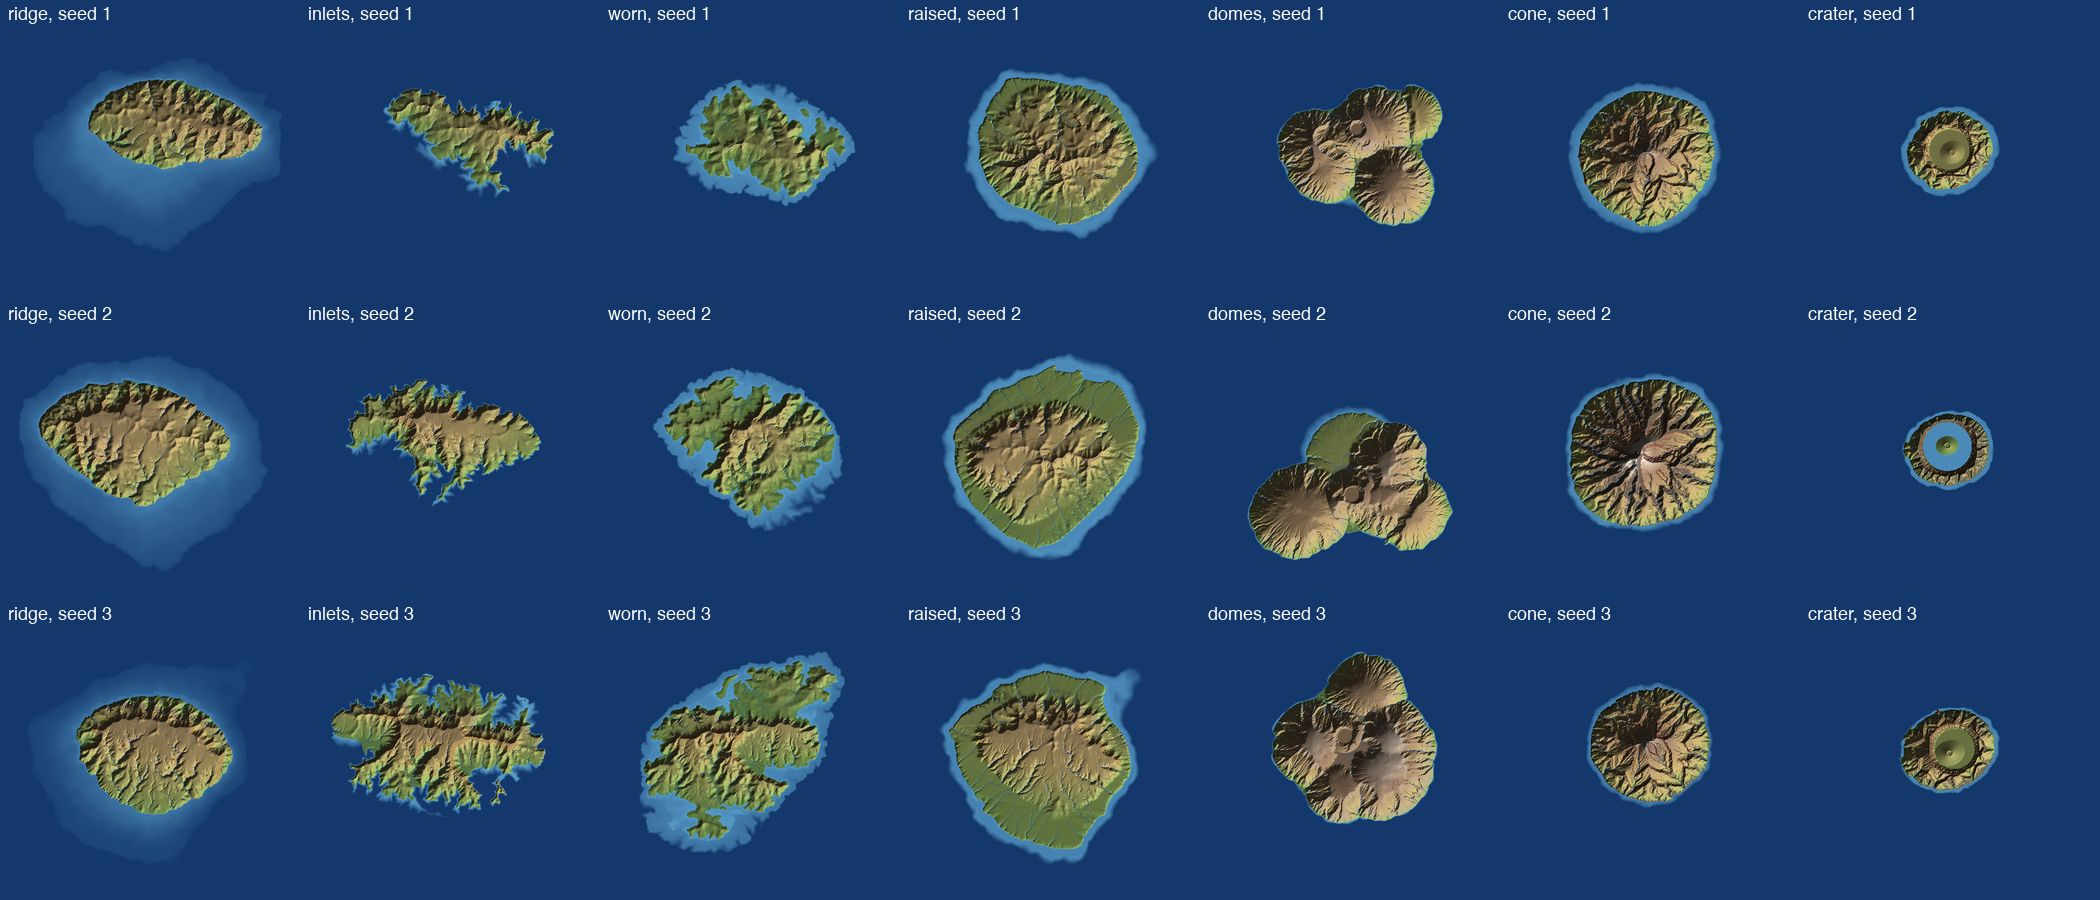
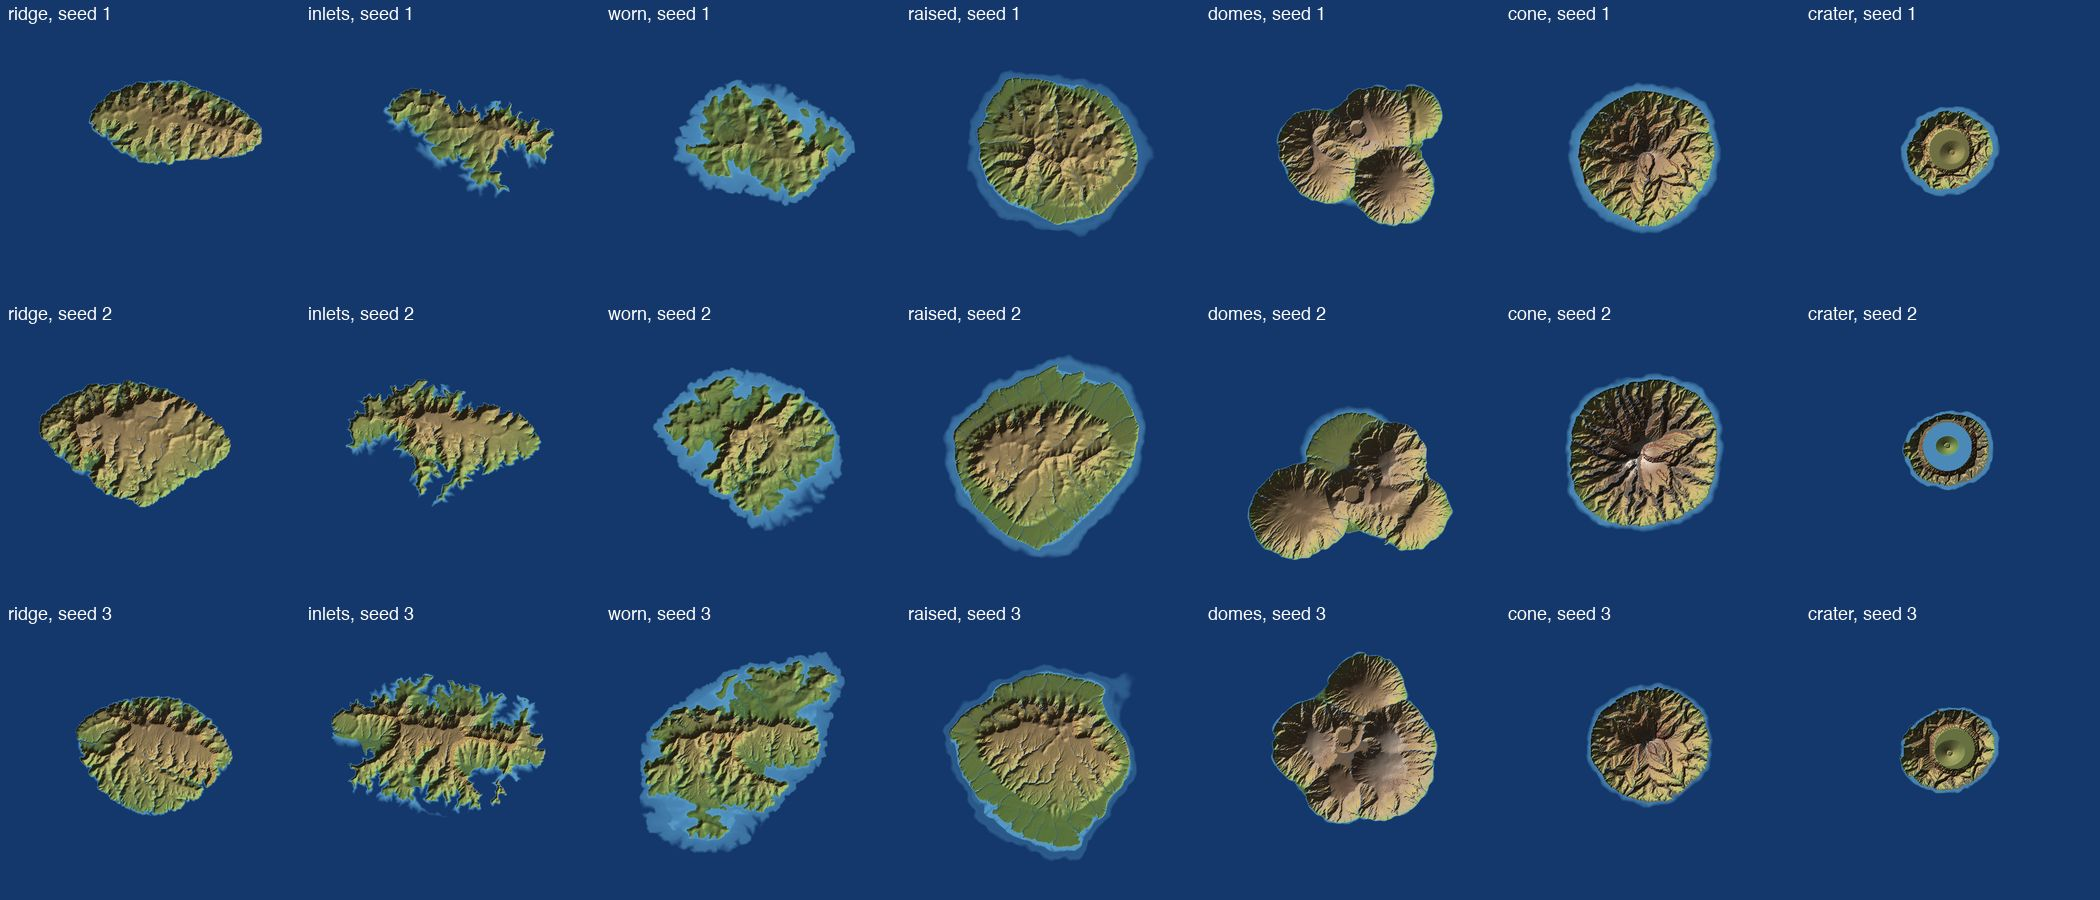
Flood the valley mouths of the ridge and raised islands into coves
Neither kind had a sheltered landing. The last rise of the sea is now 25 to
45 m on the ridge and 10 to 20 m on the raised island, two numbers in two
rows. Every ridge seed tried has a landing and half the raised ones, the
default among them. Records the three decisions the owner delegated, and
that an ice-age low stand, the truer cause, failed in this forming.

diff --git a/docs/foundations.md b/docs/foundations.md
@@ -209,7 +209,7 @@ Added 2026-11-11. Steps 0 to 3 are built. A comparison with eight real Japanese 
 
 ### The land-forming step, as built
 
-Built 2026-11-11 in three parts, each checked against the figures the game now prints at start-up. The owner has not yet looked at it.
+Built 2026-11-11 in three parts, each checked against the figures the game now prints at start-up, with the last rise of the sea on the ridge and raised kinds enlarged the next day (below). The owner has not yet looked at it.
 
 **Part 1, coast and steepness.** Uplift reaches the shore. A step inside the forming cuts each shore cell back by how much open sea lies round it and toward a swell whose bearing the seed draws, leaving a platform and a cliff; sheltered shores are not cut. Strong rock stands to 60° and creeps less. Soil and trees hold to about 45° on any rock, and only steeper faces are bare.
 
@@ -219,25 +219,25 @@ Built 2026-11-11 in three parts, each checked against the figures the game now p
 
 ![Seven kinds on three seeds each, after the step](interesting-world/real/kinds-after-land-step.jpg)
 
-Medians over the seeds tried (three to six a kind), beside the real ranges:
+Medians over the seeds tried (three to six a kind; twelve for ridge and raised, measured after their last rise was enlarged), beside the real ranges:
 
 | Figure | Real high islands | ridge | cone | crater | domes | inlets | worn | raised |
 |---|---|---|---|---|---|---|---|---|
-| Height within 100 m of the shore, m | 60 to 117 | 79 | 95 | 98 | 78 | 49 | 22 | 30 |
-| Shore rising 30 m within 50 m, % | 40 to 85 | 81 | 99 | 95 | 76 | 52 | 12 | 32 |
-| Slope in the first 100 m, ° | 29 to 51 | 32 | 38 | 43 | 37 | 20 | 12 | 12 |
-| Land under 50 m, % | 5 to 16 | 13 | 6 | 17 | 13 | 41 | 54 | 31 |
-| Land steeper than 60°, % | 0.8 to 2.9 | 2.0 | 1.6 | 2.7 | 1.0 | 1.6 | 0.3 | 0.7 |
-| Fall at a ridge crest, m | 0.56 to 1.25 | 0.59 | 1.89 | 2.3 | 1.25 | 0.62 | 0.56 | 0.54 |
-| Height above the nearest stream, m | 54 to 130 | 67 | 102 | 74 | 137 | 51 | 29 | 40 |
-| Livable ground, % of land | 15 to 46 (Kikaijima 91) | 50 | 0 | 24 | 28 | 49 | 62 | 62 |
-| Sheltered landings | 0 on the cones, 7 to 14, 80 on Tsushima | 0 | 0 | 0 | 1.5 | 9 | 9 | 0 |
+| Height within 100 m of the shore, m | 60 to 117 | 62 | 95 | 98 | 78 | 49 | 22 | 18 |
+| Shore rising 30 m within 50 m, % | 40 to 85 | 68 | 99 | 95 | 76 | 52 | 12 | 16 |
+| Slope in the first 100 m, ° | 29 to 51 | 28 | 38 | 43 | 37 | 20 | 12 | 6 |
+| Land under 50 m, % | 5 to 16 | 20 | 6 | 17 | 13 | 41 | 54 | 36 |
+| Land steeper than 60°, % | 0.8 to 2.9 | 2.0 | 1.6 | 2.7 | 1.0 | 1.6 | 0.3 | 1.0 |
+| Fall at a ridge crest, m | 0.56 to 1.25 | 0.62 | 1.89 | 2.3 | 1.25 | 0.62 | 0.56 | 0.54 |
+| Height above the nearest stream, m | 54 to 130 | 58 | 102 | 74 | 137 | 51 | 29 | 36 |
+| Livable ground, % of land | 15 to 46 (Kikaijima 91) | 47 | 0 | 24 | 28 | 49 | 62 | 65 |
+| Sheltered landings | 0 on the cones, 7 to 14, 80 on Tsushima | 2 | 0 | 0 | 1.5 | 9 | 9 | 0.5 |
 
 Before the step the four kinds stood at 6 to 17 m, 0 to 2%, 4 to 10° and 30 to 55% on the first four rows, and nothing was steeper than 60°. Forming takes 0.25 to 0.9 s on every kind. `src/` grew by 517 lines.
 
 What is still short:
 
-- **Landings.** The ridge and the raised island, which is now the default, have none; Hahajima has 7 and Kikaijima 12. Their outlines enclose no water, and a more ragged outline was cut back smooth by the sea. Only drowning gave landings.
+- **Landings.** As first built, the ridge and the raised island, which is now the default, had none; Hahajima has 7 and Kikaijima 12. Their outlines enclose no water, and a more ragged outline was cut back smooth by the sea. Only drowning gave landings, so on 2026-11-12 the last rise of the sea was enlarged in both rows: 25 to 45 m on the ridge (from 5 to 10) and 10 to 20 m on the raised island (from 3 to 6). Every one of twelve ridge seeds now has a landing (1 to 7, median 2), at the cost of some cliff: the height within 100 m of the shore fell from 79 to 62 m and the cliffed share of shore from 81 to 68%, both still inside the real range, and the land under 50 m rose from 13 to 20%, just outside it. Six of twelve raised seeds have a landing, the default among them with one, and its shore is lower (18 m, where Kikaijima's stays under 10 m). Both are still far short of the real 7 to 14.
 - **Volcanic crests are too sharp** (1.2 to 2.3 m against 0.19 to 0.69 on their references), and the cone has no livable ground at all where Mikurajima has 15%.
 - **Craters and domes look drawn.** A crater floor is a smooth round bowl and the domes are round lobes. That is the fault `lessons.md` warns of, a shape that reads as a diagram, and it is the owner's to judge.
 - **The 8 km region.** The inlets island keeps 7.6 km² of land and has 26 to 38% of its outline as sea, against 52 to 60%. On a 16 km region it formed in 4.1 to 4.9 s with 36 to 53 km² and 28 to 41 landings. Not shipped.
@@ -398,6 +398,7 @@ Tsushima has 60% of its outline as sea and Hahajima and Chichijima 52 to 56%; th
 - **An old step can undo a new one.** Each refinement re-read the island's first outline, which would have put back everything the sea had cut and which had been laying a strip of low land along every coast.
 - **The uplift ramp was one cause of the low coast among four**: the cone's uplift was nearly all at the summit, the worn island rests while its coast wears, and the raised island's shelf is low by design.
 - **A late event must be late.** A crater that fell in early was breached by streams within about 300,000 years.
+- **A low stand does not give coves here.** The real cause of coves on a cliffed coast is that valleys were cut down to an ice-age sea some 120 m lower and then flooded. Tried on the ridge row (the sea 50 to 60 m lower for the last 90,000 years, then back): the shelf the sea uncovered was lifted with the land and stayed as a broad apron when the sea returned, and with a larger rise to cover that, the cliffs had still slumped to hillsides while the sea was away (shore height 24 to 38 m). A cliff here stands steeper than a hillside only while the waves undercut it; one that kept its face for 100,000 years out of the sea would let the true history be used, and would also keep the raised island's old cliffs sharp.
 - **Three briefs each carried a wrong premise**, and each was caught because the brief asked for its claims to be tested.
 
 ### Every step has target figures

diff --git a/docs/open-decisions.md b/docs/open-decisions.md
@@ -36,6 +36,18 @@ Background: `ideas.md` (the destination) and `lessons.md` (why earlier attempts 
 - **A land-forming step goes next, ahead of step 4.** The sea cuts the coast inside the forming, so exposed shores stand as cliffs; the uplift no longer falls to nothing at the shore; strong rock holds steeper faces and creeps less; and livable ground is kept where it has a cause (a bay head, a valley floor, a terrace). The targets are the real figures in `foundations.md` section 11. This answers the first five items of question 9.
 - **The same step adds an inlet-coast kind and a vent.** The inlet coast is a history that ends in a sea rise of about 120 m, tested the same day. A vent builds rock and can collapse, so a volcanic island is built and not drawn as a bump of uplift. This takes question 10 in the direction of kinds as histories, one kind at a time.
 
+**2026-11-12, by the owner**
+
+- **The three questions the land-forming step left are Claude's to settle**: whether to commit it, what to do about the default island having no landing, and whether the swelling of a cone stands as the cause of its sea cliffs. The owner asked for them to be analysed and the best course taken. The answers are below as Claude's call, and the owner has still not looked at the step.
+
+**2026-11-12, Claude's call**
+
+- **The land-forming step is committed** as built, so that what follows can be told apart from it and undone alone.
+- **The ridge and raised islands get their landings from a larger last rise of the sea**: 25 to 45 m on the ridge (from 5 to 10) and 10 to 20 m on the raised island (from 3 to 6), which floods the mouths of their valleys into coves. Two numbers in two rows and no code. All of twelve ridge seeds now have a landing (median 2) and six of twelve raised seeds, where neither kind had any; the ridge keeps its cliffs inside the real range (62 m within 100 m of the shore, 68% of shore cliffed) and the raised shore is lower (18 m), toward Kikaijima's. The truer cause, valleys cut to an ice-age low sea and then flooded, was tried first and failed in this forming (`foundations.md` section 11).
+- **Seed 7 stays a raised island.** It is the most livable kind and now has one landing. The ground bench from its start now covers 53 m, where it covered 60.
+- **The swelling stands as the cause of volcanic sea cliffs** until the owner looks and says otherwise. It reuses the uplift and adds nothing, its figures fall inside the real ranges, and the only other cause tried gave shores of 17 to 43 m. It is a stand-in: real cones are cut back by waves through many stands of the sea, and the fix named in section 11 (a cliff that keeps its face once the sea has left it) is the way to drop it.
+- **Left for the owner's eye, not tuned by figures**: craters and domes that may read as drawn, and volcanic crests two to three times sharper than their references. Step 4 follows.
+
 **2026-11-11, Claude's call**
 
 - **The first rock story row to be written is "layered, gently tilted"**: five kinds (mudstone, siltstone, grey sandstone, grit, limestone), with the sequence, tilt and folds drawn from the seed. It is the row the experiment already showed working. More rows follow in Phase 2, and the seed then picks among them.
@@ -141,7 +153,7 @@ Raised by `foundations.md`, section 9, which lists twelve decisions with a recom
 
 ### 9. Closing the gap to real islands
 
-*The first five items were built on 2026-11-11 as the land-forming step (`foundations.md`, section 8, "The land-forming step, as built"). Still open below: kinds named after real islands, people sooner, larger regions, and the comparison tool. New from the step: the ridge and raised islands have no sheltered landing, and whether the swelling of a cone is the right cause for its sea cliffs.*
+*The first five items were built on 2026-11-11 as the land-forming step (`foundations.md`, section 8, "The land-forming step, as built"). Still open below: kinds named after real islands, people sooner, larger regions, and the comparison tool. New from the step: the ridge and raised islands had no sheltered landing, and whether the swelling of a cone is the right cause for its sea cliffs; both were settled as Claude's call on 2026-11-12 (above) and are the owner's to overturn.*
 
 Raised by `interesting-world/notes/real-islands.md` (2026-11-11), which compared eight real Japanese islands with 32 generated ones on the game's own grid and renderer. The generated land is not close. In order of how much shows:
 

diff --git a/CLAUDE.md b/CLAUDE.md
@@ -19,10 +19,10 @@ The sibling folders `../odincraft-v1` to `v4` and `../zigcraft*` hold the earlie
 - Everything in the region is stored relative to its middle, and `--origin=x,z` places that middle in the world (default 0,0); the generator's entry points (`gen_columns`, `gen_volume`) and the start convert. Positions given to `--above`, `--pos` and the bench's printed end point are in the world.
 - Judge a change to the land from the map first: `build/odincraft --map=out.png` forms the island, writes a 1024-pixel relief map with rivers and exits, in about a second.
 - `./build.sh` builds with unused-code checks on. `./build.sh run` plays.
-- Look at every visual change yourself before showing it: `build/odincraft --shot=out.png` waits for the world to load, writes one 2560 × 1440 frame and exits. Add `--fly`, and place the camera with `--above=x,height,z` (height over the ground) or `--pos=x,y,z`, `--look=yaw,pitch` in degrees and `--hour=`. The region is 8,192 m square around its origin, and the default raised island spans about -2,750 to 3,000 in x and -2,400 to 2,700 in z of it; the map shows the whole region at 8 m a pixel with -z at the top, and yaw 0 looks toward -z. Other kinds and seeds put the land elsewhere: read the map first. The PNG is uncompressed; shrink it with `sips -Z 1600 -s format jpeg` before reading it.
+- Look at every visual change yourself before showing it: `build/odincraft --shot=out.png` waits for the world to load, writes one 2560 × 1440 frame and exits. Add `--fly`, and place the camera with `--above=x,height,z` (height over the ground) or `--pos=x,y,z`, `--look=yaw,pitch` in degrees and `--hour=`. The region is 8,192 m square around its origin, and the default raised island spans about -2,600 to 2,950 in x and -2,300 to 2,700 in z of it; the map shows the whole region at 8 m a pixel with -z at the top, and yaw 0 looks toward -z. Other kinds and seeds put the land elsewhere: read the map first. The PNG is uncompressed; shrink it with `sips -Z 1600 -s format jpeg` before reading it.
 - Check frame pacing after any change to drawing or streaming: `build/odincraft --bench=15 --fly --speed=120 --above=-900,60,1700 --look=90,0`, which crosses the default island's south flank over forest. The target is no frame over 12.5 ms. Without `--fly` the same option runs along the ground, which exercises collision, and prints how far it got.
 - After any change to the land, the rock or trees, fly fast across the steepest ground of each kind, since steep land finds bugs gentle land hides: `build/odincraft --bench=20 --fly --speed=200 --above=0,80,-2000 --look=180,0` crosses the default island from north to south over its old sea cliff and upland, and `--kind=` with a path read off the map, or through the tallest face the start-up lines name, covers the others: for example `--kind=crater --seed=3 --bench=20 --fly --speed=200 --pos=-1400,330,30 --look=90,0` crosses a crater rim and floor. Over the sea `--above` measures from a sea floor 200 m down; start a flight or a view from the sea with `--pos`.
-- After any change to the player, trees or the start, run `build/odincraft --bench=8` with no position: that is how the owner starts, on a river bank, and about 60 m is the expected distance.
+- After any change to the player, trees or the start, run `build/odincraft --bench=8` with no position: that is how the owner starts, on a river bank, and about 53 m is the expected distance.
 - The start-up lines print the island's kind, the bearing its swell comes from and its history, its rock, how long it took to form (keep it near one second) and how long a step cut at the coast takes to climb to the farthest stream head; the years the land has had on its finest cells against that says how finished it is. The last three lines are the figures the real islands were measured by, each with the real islands' range beside it, ending with livable ground (the `livable` overlay paints it), sheltered landings and the deepest closed hollow: judge a change to the land by them.
 - A dark or odd patch in a screenshot is usually real geometry lit truthfully. Move the camera to it before changing the mesher.
 - Place cameras with `--above`, not `--pos`, near the ground. A camera inside the ground sees sky through the terrain and looks like missing water or missing land.
